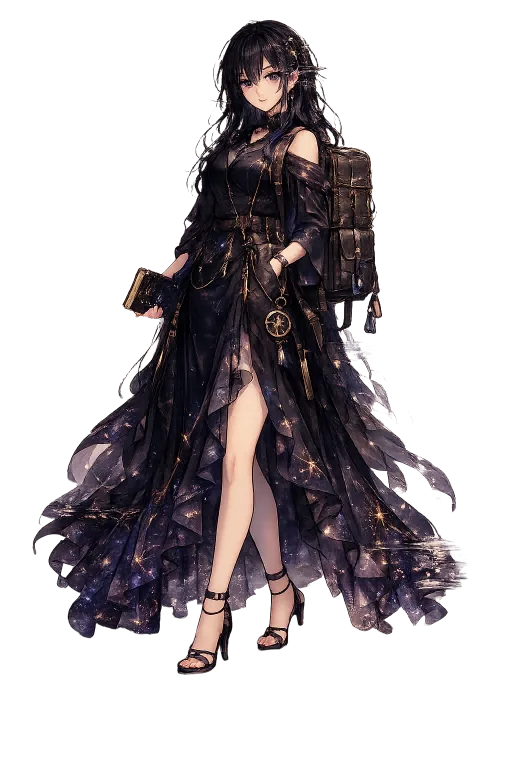
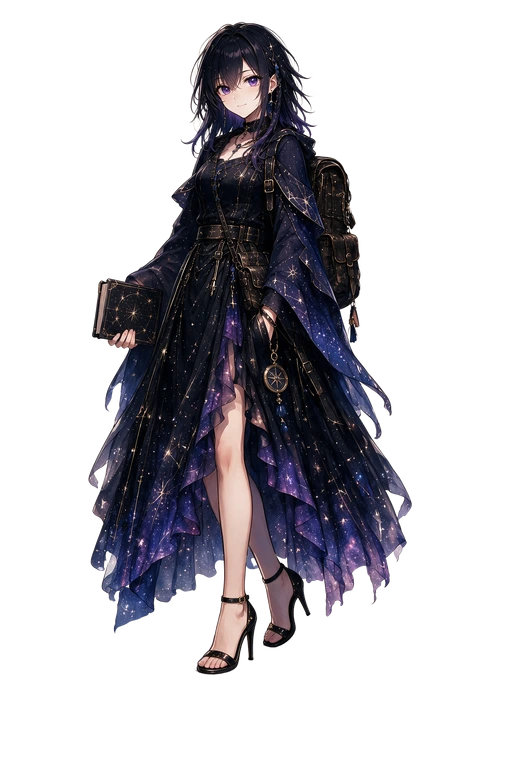
セレスティア立ち絵4枚を刷新（seedream_v5_pro・格の作法とヒールを確定）
・本番モデルを seedream_v5_pro に変更。v4_5/nano_banana は同指示でも
  生地の層・透け・金彩が出ず「安いアニメ」になるため使わない。
・表情は確定1枚からの i2i で派生＝4枚の枠がピクセル一致
  （bbox 88,20〜411,674／実CSSでレンダ矩形 378x567・top380 が完全一致）。
・格の作法：smile は不敵（片口角smirk）ではなく泰然（左右対称・頭水平）。
  serious は睨みではなく静止。sad は号泣しない。4枚とも目は見開いたまま。
・足元は黒の華奢なストラップ・ハイヒールへ。旅をしながらドレスアップした
  カジノを巡る人物なので靴はイブニング。編み上げブーツは世界観を外す。
・判断基準は docs/CAST_ART_BRIEF.md に「格の作法」「足元＝ヒール（不可侵）」
  「生成モデルの作法」として記載。

Changed region(s): [[0.0625, 0.0, 0.9062, 0.9062]]

diff --git a/docs/CAST_ART_BRIEF.md b/docs/CAST_ART_BRIEF.md
@@ -189,3 +189,49 @@
 むしろ虹彩の星・強いハイライト・濃いまつ毛で**眼力を上げる**。
 
 不可侵リスト（再掲）＝リュック／星空ドレスと小物一式／**大きく強い神眼**／細身で小顔の頭身。
+
+## 生成モデルの作法（2026-08-25 実測）
+
+**立ち絵の本番モデルは `seedream_v5_pro`（Higgsfield）。** これ以外は使わない。
+`seedream_v4_5` / `nano_banana_pro` は同じ指示でも「安いアニメ」になる——生地の層・透け・
+金彩の質感が出ず、量産テンプレ顔に寄る。カタログ2ページ目はアップスケーラのみなので、
+v5_pro が Seedream の最上位で確定。
+
+### 表情差分は i2i で作る（枠が動かない）
+確定した1枚を media にアップロードし、それを `medias:[{role:"image_references"}]` に渡して
+「**表情だけ変える。構図・スケール・キャンバス上の位置・ポーズ・衣装の皺まで同一**」と書く。
+実測：ベース比で被写体bboxの差は最大4px / 2430px（0.16%）＝実質ピクセル一致。
+seedream で表情ごとに新規生成すると寄り引きがバラつく（過去の失敗）ので、必ず i2i。
+
+### 落とし穴
+- **smile は放っておくと目を閉じる**（＞＜ の笑顔になり目力が消える）。
+  「目は参照と同じだけ見開いたまま／閉じるな・弧にするな・細めるな。変わるのは口と頬だけ」
+  と明示的に禁止して初めて開いた目の微笑になる。
+- 背景抜きは `remove_background` ツール（`image_background_remover`）が最良。
+  髪の毛先・シフォンの裾まで白フチ無しで抜け、接地影も落ちる。
+  ただし**アップロード済み media を渡すと `_resize.jpg` 経由で解像度が落ちる**（1664→1365）。
+  生成 job_id を直接渡せばフル解像度のまま抜ける。
+- 出力の設置は「4枚に同一の変換」を掛ける。各画像ごとに bbox 正規化すると裾の差で微妙にズレる。
+
+### 立ち絵の規格
+`images/cast/stand/*.webp` ＝ **512x768 / 透過 / 家の標準（38ファイルが同一）**。
+CSS は `.dlg-standee img { height:100%; object-fit:contain; object-position:bottom }` なので
+**キャンバス寸法と被写体の縦位置が同じなら画面上の見えは一切動かない**。
+セレスティアの被写体帯は y=20〜674 で固定すること。
+
+### 格の作法（2026-08-25 決裁）
+セレスティアは**最上級の格**。表情は全て「格を落とさない」ことが第一条件。
+- **smile ＝ 不敵ではなく泰然**。片口角を上げる smirk・顎を上げる・片眉を上げるは
+  「二番手の悪役」の顔で**格が落ちる**。挑発しないのは、相手を試す必要がないから。
+  → **左右対称の閉じた微笑／頭は水平／眉は左右同高**。表面は穏やかで底が読めない。
+- **serious ＝ 睨みではなく静止**。眉を寄せる・しかめるは「その状況の中にいる人」の顔。
+  彼女は状況の**上**にいる。→ 力みゼロの水平な口／正面／揺るぎない視線。
+- **sad ＝ 号泣しない**。世界を看取り続けた者の、古びて静かになった哀しみ。
+  下瞼がわずかに濡れるだけで、崩れない。
+- 4枚すべて**目は見開いたまま**（[[目力]]）。閉じ目・細目・弧目は禁止。
+
+### 足元＝ヒール（不可侵）
+**黒の華奢なストラップ・ハイヒールサンダル**（細いヒール／足首ストラップ＋小さな金バックル）。
+旅をしながら**ドレスアップしたカジノを巡っている**人物なので、靴はイブニング。
+編み上げブーツは旅の実用に寄りすぎて世界観を外す。リュック＋星のドレス＋ヒールの
+取り合わせ自体が「不思議な魅力」の正体。
